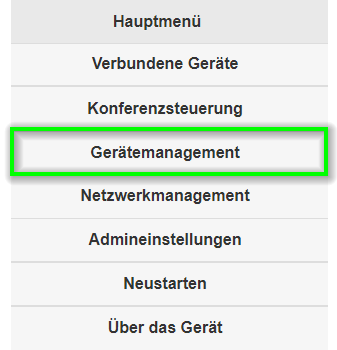
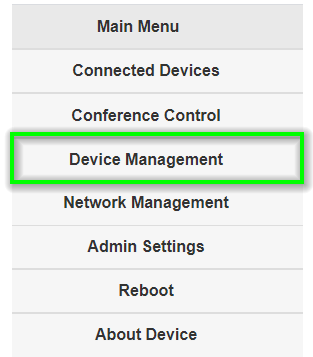
Updates

diff --git a/docs/pro-dongle-d10/castcode.md b/docs/pro-dongle-d10/castcode.md
@@ -1,0 +1,100 @@
+# Castcode Security
+
+The Castcode provides additional security against unauthorized screen mirroring by requiring each Guest to enter a four-digit code to be allowed to cast content. This allows you to ensure that only participants in the same room can mirror to the large screen. The following settings are available:
+
+* `OFF` - No Castcode is required.
+* `Random` - Random (updates automatically on power up or reboot).
+* `Fixed` - Specify a fixed castcode.
+
+The castcode is displayed at the top center of the start page:
+
+![The castcode](/assets/img/B10_Castcode.png)
+
+When the enddevice correctly enters the castcode, screen mirroring is authorized to start:
+
+![The castcode](/assets/img/Enddevice_MiracastPin.png)
+
+## What streaming protocols does castcode support?
+
+Castcode is supported using the following applications and protocols:
+
+* EZCast Pro software for Windows and macOS.
+* EZCast Pro app for Android and iOS
+* AirPlay on iOS and macOS
+
+## What streaming protocols does castcode not support?
+
+Due to a limitation in the protocol technology, castcode cannot be supported under the following streaming protocols. You can however still protect against unauthorized screen casting:
+
+* Google Cast
+* Miracast
+
+### Google Cast
+
+Currently there is no castcode functionality within the Chromecast protocol. However, you do have the ability to use the Host Control feature of the EZCast Pro app/software to protect against unauthorized screen mirroring. When a Chromecast device attempts to cast, the cast request must be approved by the moderator (Host):
+
+![Host Control](/assets/img/AppHostControl.png).
+
+A comprehensive user guide on Host Control can be found [here](ezcastproapp.md#host-control).
+
+### Miracast
+
+The Miracast protocol does not support a four-digit cast code, it uses an eight-digit pin code. You can enable this feature in [Advanced Settings](adv.settings.md#Miracast):
+
+![Host Control](/assets/img/Miracast.png)
+
+When a Miracast device sends EZCast Pro a cast request, the eight-digit pin code appears in yellow at the top of the landing page. This pin must be entered on the enddevice before screen mirroring is allowed to begin.
+
+![Host Control](/assets/img/ProIIDongle_MiracastPin.png)
+
+## How to Enable Castcode
+
+Enable the Castcode feature in Advanced Settings in the `EZCastPro` software for [Windows and macOS](quickstart.md#InstallSoftware) or in the app for [Android and iOS](quickstart.md#InstallApp).
+
+### Open advanced settings
+
+* Open the software `EZCastPro` on your device and select the Pro Dongle II from the device list.
+
+* On Windows/macOS select `Advanced Settings`.
+
+![](/assets/img/Win-App-Advanced-Settings.png)
+
+* On iOS/Android, select the `Settings` button on the top left, then tap `Advanced`:
+
+![](/assets/img/iOS_adv-settings.png)
+
+### Log in as Admin
+
+* Enter the admin password and click `OK` to log in. By default, the password is `000000`. If this password is not accepted reset the device via the [reset-switch](reset.md#reset-per-reset-switch).
+
+![](/assets/img/EZCastII_Login.png)
+
+* During first login, you will need to change the admin password. Then you will have to log in once more with the new password.
+
+![](/assets/img/new_password.png)
+
+### Enble Castcode
+
+* Select 'Device Management' from the menu:
+
+![](/assets/img/ezcastpro.II.select.devicemanagement.png)
+
+* Select the menu item `Castcode Control`:
+
+![](/assets/img/ezcastpro.II.devicemanagement.castcode.png)
+
+* Select the desired setting:
+
+![](/assets/img/ezcastpro.II.select.castcode.png)
+
+* You must now restart the Pro Box II in order to activate Castcode. In the menu select 'Restart'.
+
+![](/assets/img/prostickII_menu.restart.png)
+
+* Then select the button 'Restart' again.
+
+![](/assets/img/restart.jpg)
+
+
+
+Translated with www.DeepL.com/Translator (free version)

diff --git a/docs/pro-box-b10/castcode.md b/docs/pro-box-b10/castcode.md
@@ -1,0 +1,96 @@
+# Castcode Security
+
+The Castcode provides additional security against unauthorized screen mirroring by requiring each Guest to enter a four-digit code to be allowed to cast content. This allows you to ensure that only participants in the same room can mirror to the large screen. The following settings are available:
+
+* `OFF` - No Castcode is required.
+* `Random` - Random (updates automatically on power up or reboot).
+* `Fixed` - Specify a fixed castcode.
+
+The castcode is displayed at the top center of the start page:
+
+![The castcode](/assets/img/B10_Castcode.png)
+
+When the enddevice correctly enters the castcode, screen mirroring is authorized to start:
+
+![The castcode](/assets/img/Enddevice_MiracastPin.png)
+
+## What streaming protocols does Castcode support?
+
+The castcode is requested on an application to send from the following streaming protocols or applications:
+
+* EZCast Pro software for Windows and macOS.
+* EZCast Pro app for Android and iOS
+* AirPlay on iOS and macOS
+
+## What streaming protocols does Castcode not support?
+
+Due to a limitation of protocols, the castcode cannot be supported under the following streaming protocols. Nevertheless, you can protect against unauthorized screen casting:
+
+* Google Cast
+* Miracast
+
+### Google Cast
+
+Currently there is no castcode functionality within the Chromecast protocol. However, you do have the ability to use the EZCast Pro app/software the Host Control feature to protect against unauthorized screen mirroring. When a Chromecast device attempts to cast, the cast request must be approved by the moderator (Host):
+
+![Host Control](/assets/img/AppHostKontrolle.png).
+
+A comprehensive user guide on Host Control can be found [here](ezcastproapp.md#host-control).
+
+### Miracast
+
+The Miracast protocol does not support a four-digit cast code, but an eight-digit pin code. You can enable this feature in [Advanced Settings](adv.settings.md#Miracast):
+
+![Host Control](/assets/img/Miracast.png)
+
+When a Miracast device sends EZCast Pro a request to mirror, the eight-digit pin code appears in yellow at the top of the landing page. This pin must be entered on the enddevice before screen mirroring is allowed to begin.
+
+![Host Control](/assets/img/ProIIDongle_MiracastPin.png)
+
+## How to Enable Castcode
+
+Enable the Castcode feature in Advanced Settings in the `EZCastPro` software for [Windows and macOS](quickstart.md#InstallSoftware) or in the app for [Android and iOS](quickstart.md#InstallApp).
+
+### Open Advanced Settings
+
+* Open the software `EZCastPro` on your device and select the Pro Box II from the device list.
+
+* On Windows/macOS select `Advanced Settings`.
+
+![](/assets/img/ProII-Win-App-Advanced-Settings.png)
+
+* On iOS/Android, select the `Settings` button on the top left, then tap `Advanced`:
+
+![](/assets/img/iOS_adv-settings.png)
+
+### Log in as Admin
+
+* Enter the admin password and click `OK` to log in. By default, the password is `000000`. If this password is not accepted reset the device via the [reset-switch](reset.md#reset-per-reset-switch).
+
+![](/assets/img/EZCastII_Login.png)
+
+* During first login, you will need to change the admin password. Then you will have to log in once more with the new password.
+
+![](/assets/img/new_password.png)
+
+### Enable Castcode
+
+* Select `Device Management` from the menu:
+
+![](/assets/img/ezcastpro.II.select.devicemanagement.png)
+
+* Select the menu item `Castcode Control`:
+
+![](/assets/img/ezcastpro.II.devicemanagement.castcode.png)
+
+* Select the desired setting:
+
+![](/assets/img/ezcastpro.II.select.castcode.png)
+
+* You must now restart the Pro Box II in order to activate Castcode. In the menu select `Restart`.
+
+![](/assets/img/prostickII_menu.restart.png)
+
+* Then select the button `Restart` again.
+
+![](/assets/img/restart.jpg)

diff --git a/docs/pro-dongle-d10/whatsnew.md b/docs/pro-dongle-d10/whatsnew.md
@@ -35,7 +35,7 @@ This chapter all the latest changes to the EZCast Pro Dongle II.
 
 *  Google Cast Split Screen: Supporting native [Chromecast](chromecast.md) mirroring up to 4 devices on Split Screen display
 *  [Timed Restart](adv.settings.md#timedrestart): To optimize system performance and stability, the receiver can be restarted automatically after 8 hours of inactivity
-*  Added [Castcode](adv.settings.md#Castcode) protection to AirView
+*  Added [Castcode](castcode.md) protection to AirView
 *  Added [Auto mode](adv.settings.md#AirPlayMode) to AirPlay function
 *  Support AES encryption for data transmission between web browser and EZCast Pro Dongle II
 

diff --git a/docs/pro-box-b10/whatsnew.md b/docs/pro-box-b10/whatsnew.md
@@ -42,7 +42,7 @@ This chapter all the latest changes to the EZCast Pro Box II.
 
 *  Google Cast Split Screen: Supporting native [Chromecast](chromecast.md) mirroring up to 4 devices on Split Screen display
 *  [Timed Restart](adv.settings.md#timedrestart): To optimize system performance and stability, the receiver can be restarted automatically after 8 hours of inactivity
-*  Added [Castcode](adv.settings.md#Castcode) protection to AirView
+*  Added [Castcode](castcode.md) protection to AirView
 *  Added [Auto mode](adv.settings.md#AirPlayMode) to AirPlay function
 *  Support AES encryption for data transmission between web browser and EZCast Pro Box II
 

diff --git a/docs/pro-box-b10/adv.settings.md b/docs/pro-box-b10/adv.settings.md
@@ -146,6 +146,8 @@ The Castcode is displayed here:
 
 ![The Castcode](/assets/img/D10_Castcode.png)
 
+A comprehensive guide to using Castcode can be found [here](castcode.md).
+
 #### Maximum Connections {#maxconnections}
 
 This setting limits the number of direct connections the EZCast Pro II device will support via its own Wi-Fi hotspot. An additional 32 connections are supported via router. Please be aware that increasing the number of

diff --git a/docs/pro-dongle-d10/adv.settings.md b/docs/pro-dongle-d10/adv.settings.md
@@ -146,6 +146,8 @@ The Castcode is displayed here:
 
 ![The Castcode](/assets/img/D10_Castcode.png)
 
+A comprehensive guide to using Castcode can be found [here](castcode.md).
+
 #### Maximum Connections {#maxconnections}
 
 This setting limits the number of direct connections the EZCast Pro II device will support via its own Wi-Fi hotspot. An additional 32 connections are supported via router. Please be aware that increasing the number of
